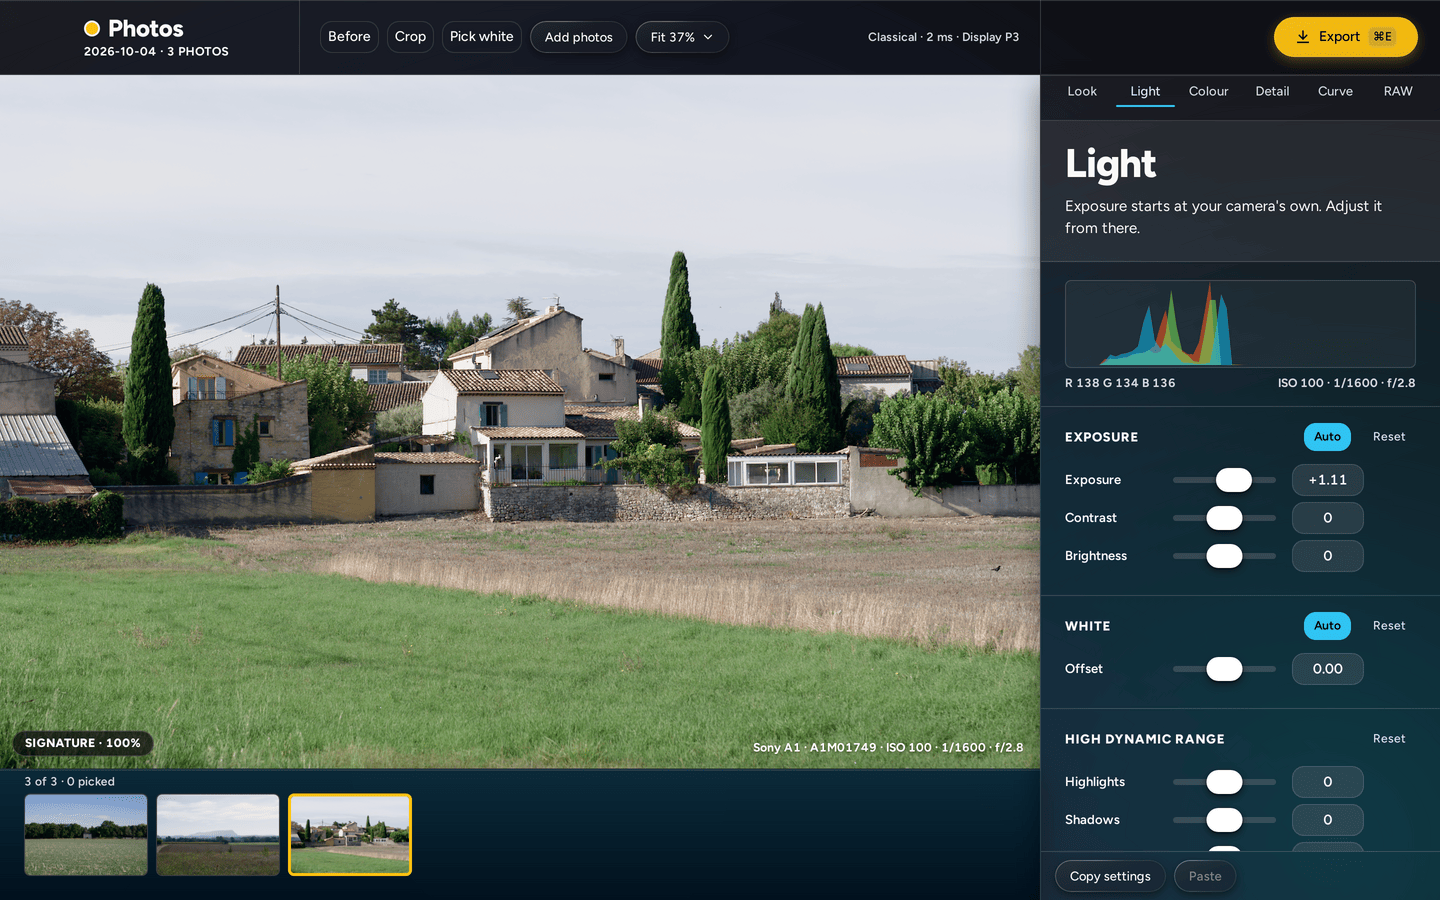
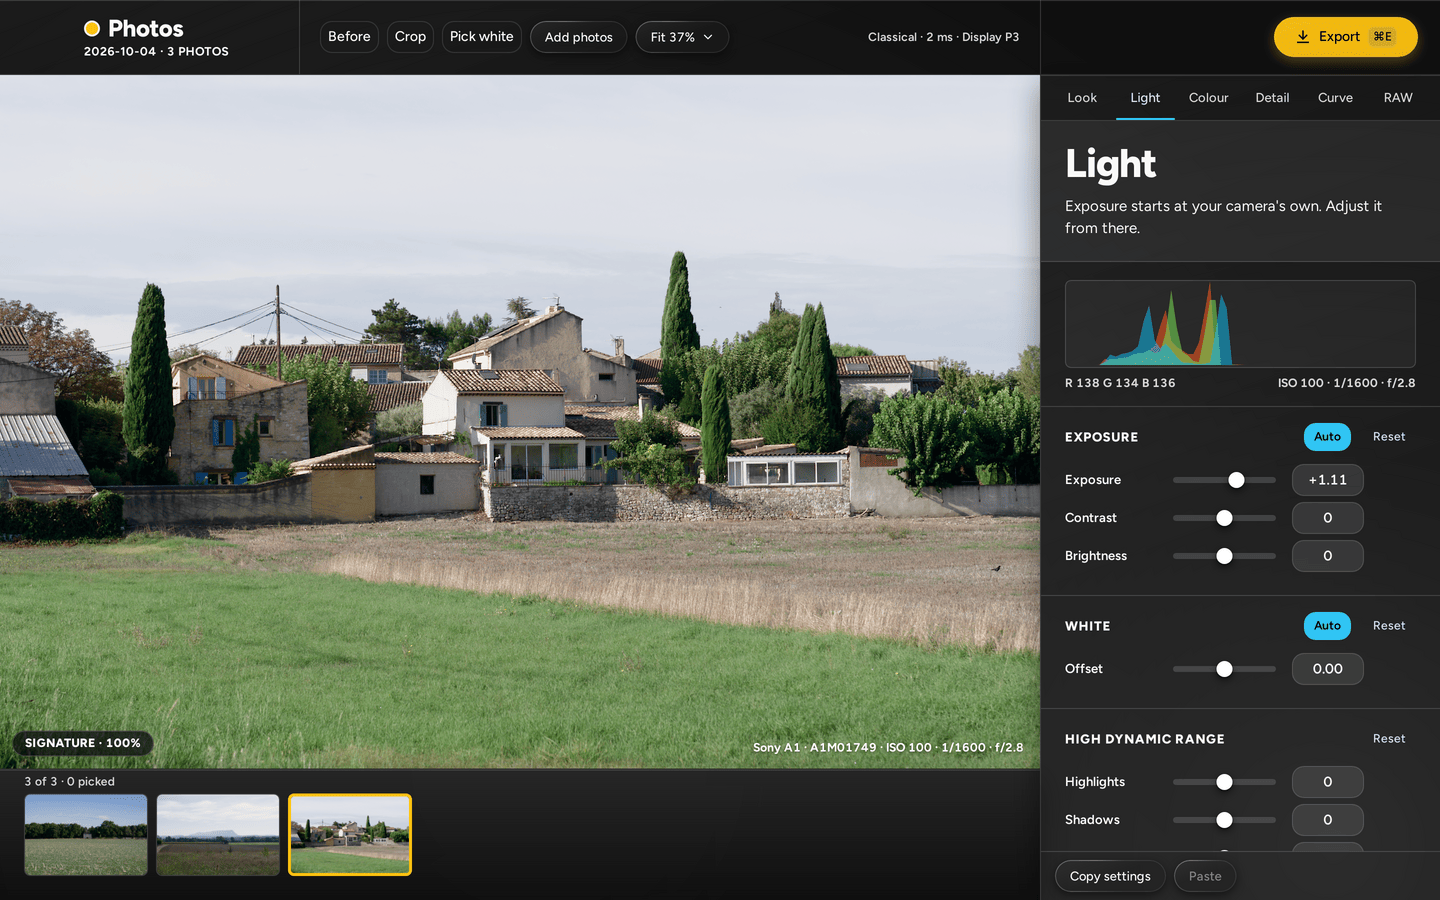
README pictures and social card in neutral graphite
The owner: "You also need to update social card, since theme has changed". Both are made again from one capture of the real app (tools/readme, the Linux debug build, A1M01749 among the three owner photos, --name Photos --pick A1M01749 --keep-raw), with this tree's frontend.

- docs/images/readme/photo-{look,light,colour,detail,export}.png: the 1x pictures, 465 to 478 KB (centred tabs and small knobs show too).
- tools/social-card/card.html: the card's own aurora, frost and shades lose their hue (the ground of 0.1.8); docs/images/social-card.png rendered as variant B from the raw Look capture, 354 KB.
- STATUS: the README note; the card is to be uploaded again in Settings > General > Social preview (SOC-1).

Checks: npx vitest run tools/social-card tools/readme.

Claude-Session: https://claude.ai/code/session_015yVsquBXWFc8zJt2CLktQS

diff --git a/tools/social-card/card.html b/tools/social-card/card.html
@@ -23,17 +23,18 @@
 <style>
 :root {
   /* The C2 dark-glass tokens (src/styles/glass.css .dark, glass-c2.css html.dark on origin/claude/glasscn-ui). */
-  --aurora-base: oklch(0.125 0.014 262);
-  --aurora-1: oklch(0.36 0.1 262);   /* deep blue */
-  --aurora-2: oklch(0.4 0.08 212);   /* teal */
-  --aurora-3: oklch(0.34 0.09 298);  /* violet */
+  /* The neutral graphite ground of the interface (0.1.8, src/styles/glass-c2.css): grey blobs, no hue. */
+  --aurora-base: oklch(0.116 0 0);
+  --aurora-1: oklch(0.326 0 0);
+  --aurora-2: oklch(0.339 0 0);
+  --aurora-3: oklch(0.315 0 0);
   --paper: #0f0f10;
   --brand: #ffc20e;                  /* the moon, and one small detail. Never a large area. */
   --ink: oklch(0.985 0 0);
   --ink-2: rgb(255 255 255 / 0.62);  /* tagline */
   --ink-3: rgb(255 255 255 / 0.5);   /* small line */
   --rim: rgb(255 255 255 / 0.16);
-  --glass-tint: oklch(0.24 0.012 285);
+  --glass-tint: oklch(0.24 0 0);
   --font: "Figtree", sans-serif;
   --margin: 64px;                    /* nothing but pictures closer than this to an edge */
 }
@@ -115,7 +116,7 @@ body[data-variant="A"] .v-a, body[data-variant="B"] .v-b, body[data-variant="C"]
 .v-c .shade {
   position: absolute; inset: 0;
   background:
-    linear-gradient(0deg, rgb(11 13 20 / 0.9) 0%, rgb(11 13 20 / 0.72) 18%, rgb(11 13 20 / 0.4) 36%, rgb(11 13 20 / 0.12) 54%, rgb(11 13 20 / 0) 70%);
+    linear-gradient(0deg, rgb(12 12 12 / 0.9) 0%, rgb(12 12 12 / 0.72) 18%, rgb(12 12 12 / 0.4) 36%, rgb(12 12 12 / 0.12) 54%, rgb(12 12 12 / 0) 70%);
 }
 .v-c .copy { position: absolute; left: var(--margin); bottom: var(--margin); }
 .v-c .row { display: flex; align-items: center; gap: 20px; }
@@ -123,7 +124,7 @@ body[data-variant="A"] .v-a, body[data-variant="B"] .v-b, body[data-variant="C"]
 .v-c .wordmark { font-size: 86px; }
 .v-c .tagline { margin-top: 20px; font-size: 32px; line-height: 1.2; color: rgb(255 255 255 / 0.74); }
 .v-c .small { position: absolute; right: var(--margin); bottom: var(--margin); font-size: 19px; color: rgb(255 255 255 / 0.62);
-  padding: 9px 18px 10px; border-radius: 999px; border: 1px solid var(--rim); background: rgb(20 22 30 / 0.5);
+  padding: 9px 18px 10px; border-radius: 999px; border: 1px solid var(--rim); background: rgb(22 22 22 / 0.5);
   -webkit-backdrop-filter: blur(20px) saturate(160%); backdrop-filter: blur(20px) saturate(160%); }
 </style>
 </head>
@@ -147,12 +148,12 @@ body[data-variant="A"] .v-a, body[data-variant="B"] .v-b, body[data-variant="C"]
     <symbol id="mark-tile" viewBox="50 50 412 412">
       <rect x="51" y="51" width="410" height="410" rx="79" fill="url(#tile-fill)"/>
       <rect x="52.5" y="52.5" width="407" height="407" rx="77.5" fill="none" stroke="url(#tile-rim)" stroke-width="3"/>
-      <circle cx="256" cy="256" r="135" fill="#08090c" fill-opacity="0.9"/>
+      <circle cx="256" cy="256" r="135" fill="#0a0a0a" fill-opacity="0.9"/>
       <circle cx="256" cy="256" r="135" fill="none" stroke="#fff" stroke-opacity="0.1" stroke-width="2"/>
       <circle cx="256" cy="256" r="101" fill="url(#disc)"/>
     </symbol>
     <symbol id="mark-bare" viewBox="119 119 274 274">
-      <circle cx="256" cy="256" r="135" fill="#08090c" fill-opacity="0.62"/>
+      <circle cx="256" cy="256" r="135" fill="#0a0a0a" fill-opacity="0.62"/>
       <circle cx="256" cy="256" r="135" fill="none" stroke="#fff" stroke-opacity="0.22" stroke-width="3"/>
       <circle cx="256" cy="256" r="101" fill="url(#disc)"/>
     </symbol>

diff --git a/docs/STATUS.md b/docs/STATUS.md
@@ -307,7 +307,7 @@ Mykyta wrote: "Great, merge C2 and V1 branch to main and build new version". C2 
 - **Dark behind the photo.** `--paper` of the dark theme in `design/tokens.css` and `src/styles/tokens.css` is `#0f0f10`; the same colour is `PAPER_SRGB` in `src-tauri/src/native.rs` (f64, the `NSWindow` background colour, 0.0588 0.0588 0.0627; the wgpu pass itself clears to black and the core's frame, letterboxed in `PAPER_RGB8`, covers the cell), `PAPER_RGB8` in `src-tauri/src/api.rs` (`options.render.background = PAPER_RGB8`, the letterbox of the viewport's frames, thumbnails and look tiles; the app sets it, the core's default stays white and the CLI and every export are byte-identical), `backgroundColor` of the window in `src-tauri/tauri.conf.json`, and the inline root style and `color-scheme` of `index.html` and `components.html`. Two Rust tests (`api/tests.rs`: the letterbox and the window colour equal `--paper`) and `src/styles/native-viewport.node.test.ts` (7 tests: all of them tied to `--paper`, the native-viewport rule keeps html, body, #root and the Photos screen transparent, and no C2 sheet paints the cell) hold them together. C2's CSS does not paint over the cell: the aurora is `pointer-events-none` and masked out of the cell's rectangle (`--cell-x/y/w/h`), checked by `e2e/viewport.spec.ts` in a browser with the native viewport mock (the boxes at five points of the cell are all clear and unblurred, and a capture without the page's background is transparent inside the cell and opaque in the header) and by the node test. The smoke page check in `src-tauri/src/app.rs` follows the new slider (`SMOKE_PERF_SCRIPT` reads the knob). Its description of the page (`SMOKE_DESCRIBE_PAGE`, read by `page_paints_over_cell`) also reads the aurora, which no hit test lists: the mask must exclude its second layer, that layer must be the cell's rectangle, `--cell-x/y/w/h` must be set, and no box over the cell may have a background image or a backdrop blur; `e2e/viewport.spec.ts` runs the same script in Chromium. Exports and the CLI are untouched: `the_app_and_the_command_line_write_the_same_bytes` passes.
 - **Review of the merge (11 findings, all applied).** `Button` has one tree whether or not it has a title (focus stays on Next when its note appears), its tooltip opens on hover only (an open tooltip took the first Esc), and a locked `Toggle` is muted and inert; the Update cell is an app `Button`, so the reason of a locked one shows on hover; `Slider` ignores non-primary buttons; the Look search's Clear is not a Tab stop and an Esc in an empty field reaches the page; the developing view's drop notice is selectable; `e2e/perf/latency.perf.ts` reads the filmstrip caption, and `src/perfSelectors.node.test.ts` holds every class the perf files select to the app's markup; the Mac `viewport` job's page check now reads the aurora's mask and `--cell-x/y/w/h` (`page_paints_over_cell`, `docs/13`); the stale Safari 15 comment, the README and the changelog now say the interface needs WebKit 16.4 (question 30 stays open); `docs/00`, `AGENTS.md` and this file no longer contradict the dark glass decision. Found while doing it: the wrapper span of every button collapsed the Look section headers to their text (the approved `photos-look-search` reference shows it), fixed in `glass-c2.css` and held by `e2e/look-sections.spec.ts`; `native-viewport.node.test.ts` read `PAPER_SRGB` as one line and failed once `rustfmt` split it over four.
 - **Gates** (Linux x86_64, no Mac, 2026-10-16): `cargo fmt --check` clean (one line of `native.rs` reformatted), `cargo clippy --workspace --all-targets -- -D warnings` clean, `RUSTDOCFLAGS="-D warnings" cargo doc --workspace --no-deps` clean, `cargo deny check` ok (advisories, bans, licenses, sources), `cargo test -p yellowmoon-app` 138 passed, 0 failed, 3 ignored (two new). The parity test failed first because `src-tauri/binaries/ym-x86_64-unknown-linux-gnu` (git-ignored) was an old `ym`; `cargo build -p ym-cli`, copied over it, passes.
-- **README screenshots** are redone in the dark glass interface (2026-10-16) from A1M01749, 1440 × 900, 449 … 472 KB. `tools/readme` now shrinks a picture with one dithered palette over the whole image (`--palette whole`, the default): the region palettes of the flat interface made the glass panes blotchy and turned the Light tab's cyan Auto pill white. The social card (`docs/images/social-card.png`, `tools/social-card`) is made from the same capture; Mykyta uploads it in the repository's Settings → General → Social preview (Waiting on Mykyta).
+- **README screenshots** are redone in the neutral graphite interface (2026-10-17, 0.1.8; before that in the cool dark glass of 2026-10-16) from A1M01749, 1440 × 900, 465 … 478 KB, and the social card with them (`docs/images/social-card.png`, 354 KB, its own colours in `tools/social-card/card.html` made neutral too); Mykyta uploads the new card (SOC-1). `tools/readme` now shrinks a picture with one dithered palette over the whole image (`--palette whole`, the default): the region palettes of the flat interface made the glass panes blotchy and turned the Light tab's cyan Auto pill white. The social card (`docs/images/social-card.png`, `tools/social-card`) is made from the same capture; Mykyta uploads it in the repository's Settings → General → Social preview (Waiting on Mykyta).
 - **Mac-only checks** (M0-H4 row below): the dark ground and no white flash in WKWebView, the photo showing through the cell with blurred glass beside it, Radix focus and menus in WKWebView, and whether the CSS (Tailwind 4: `@property`, `color-mix`, `oklch`, `backdrop-filter`) renders on macOS 14, the oldest supported (question 30, answered).
 
 ## Waiting on Mykyta

diff --git a/tools/social-card/README.md b/tools/social-card/README.md
@@ -22,7 +22,7 @@ The run fails when Figtree did not load, an image is missing, any text is closer
 
 ## The page
 
-`card.html` is one file with inline CSS and an SVG mark. Its colours come from the dark glass interface (`src/styles/glass-c2.css`): the paper, the still, cool aurora and the glass frame. Yellow is only the mark. `render.mjs` puts the font (`design/fonts/figtree-latin-wght-normal.woff2`, OFL) in as a data URI when it renders, because a page opened from a file may not load a font from another file.
+`card.html` is one file with inline CSS and an SVG mark. Its colours come from the dark glass interface (`src/styles/glass-c2.css`): the paper, the still, neutral graphite aurora (grey blobs, no hue, since 0.1.8) and the glass frame. Yellow is only the mark. `render.mjs` puts the font (`design/fonts/figtree-latin-wght-normal.woff2`, OFL) in as a data URI when it renders, because a page opened from a file may not load a font from another file.
 
 Options (`node tools/social-card/render.mjs --help`):
 
